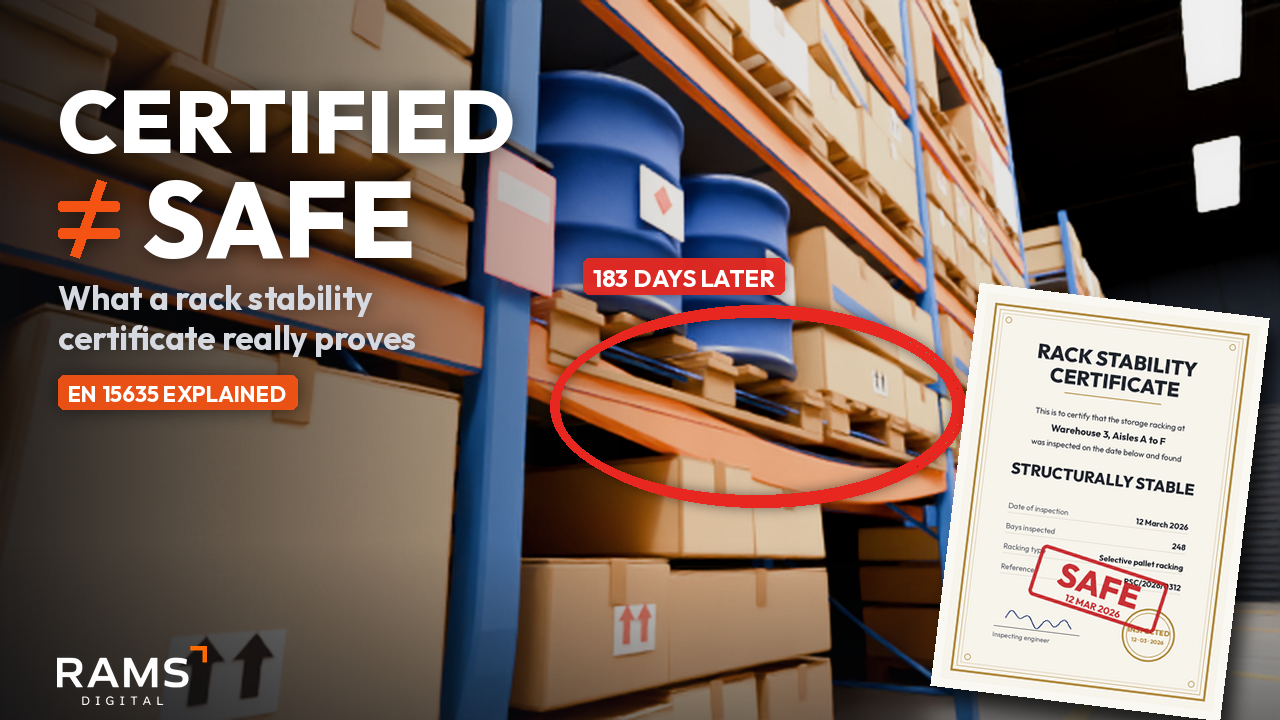
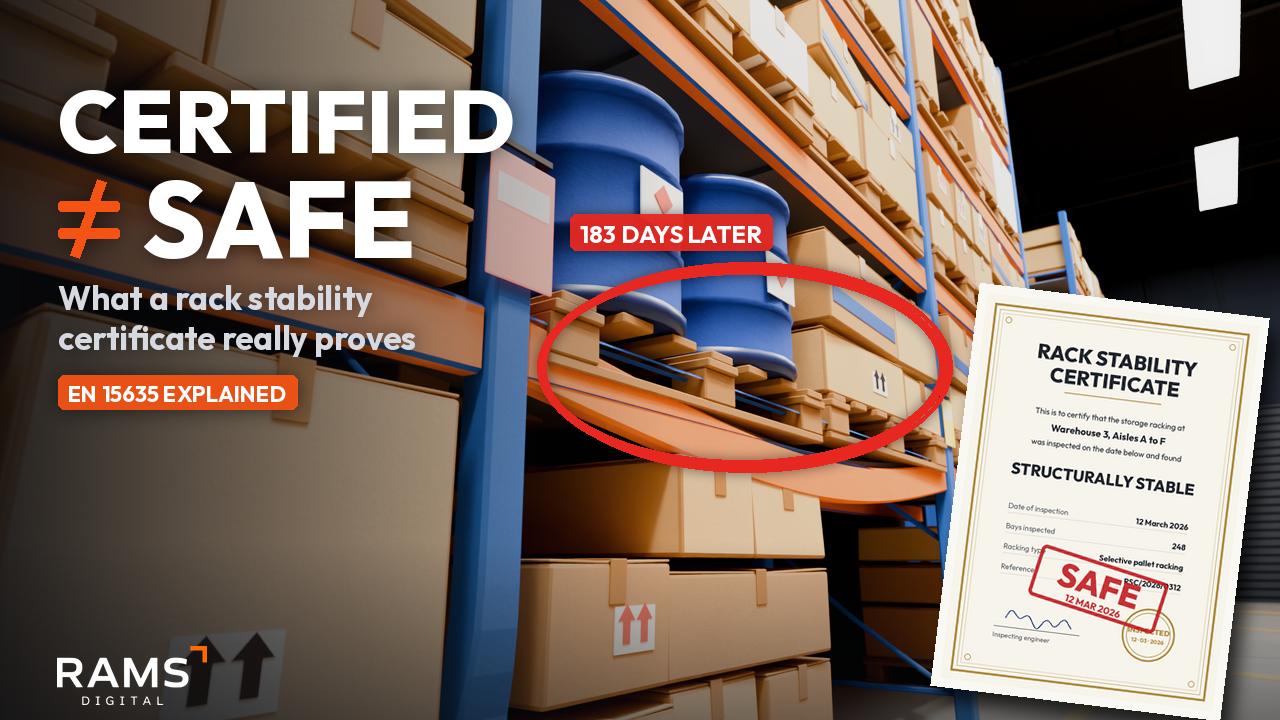
CNS: final thumbnails (16:9, 1:1) from the 1080p hero still
Claude-Session: https://claude.ai/code/session_017bHX7FK5WNQNoFGJvc2ZAC

diff --git a/scripts/cns/thumb.py b/scripts/cns/thumb.py
@@ -68,7 +68,7 @@ def card(h, rot):
     return out
 
 
-def ring(img, to_px, s, label):
+def ring(img, to_px, s, label, below=False):
     """A marker-pen red ring around the damage, with a label chip."""
     lay = P.layer(img.size)
     d = ImageDraw.Draw(lay)
@@ -76,7 +76,7 @@ def ring(img, to_px, s, label):
     x1, y1 = to_px(RING[2], RING[3])
     for dx, dy, w in ((0, 0, 9), (5, -4, 5)):
         d.ellipse((x0 + dx, y0 + dy, x1 + dx, y1 - dy), outline=(*RED, 255), width=max(2, int(w * s)))
-    P.chip(d, x0 + (x1 - x0) * 0.08, y0 - 52 * s, label, RED, s, 1.0, 24)
+    P.chip(d, x0 + (x1 - x0) * 0.08, y1 + 14 * s if below else y0 - 52 * s, label, RED, s, 1.0, 24)
     P.shadowed(img, lay, 6, 0.5)
 
 
@@ -138,7 +138,7 @@ def thumb_1x1(still):
     img = P.grade(bg).convert("RGBA")
     shade(img, (0, 0, W, H * 0.45), 0.88, 0.0, axis="y")
     shade(img, (0, H * 0.72, W, H), 0.0, 0.6, axis="y")
-    ring(img, to_px, s, "183 DAYS LATER")
+    ring(img, to_px, s, "183 DAYS LATER", below=True)
     c = card(int(H * 0.42), 6)
     img.alpha_composite(c, (int(-W * 0.03), int(H - c.height + H * 0.06)))
     lay = P.layer((W, H))
